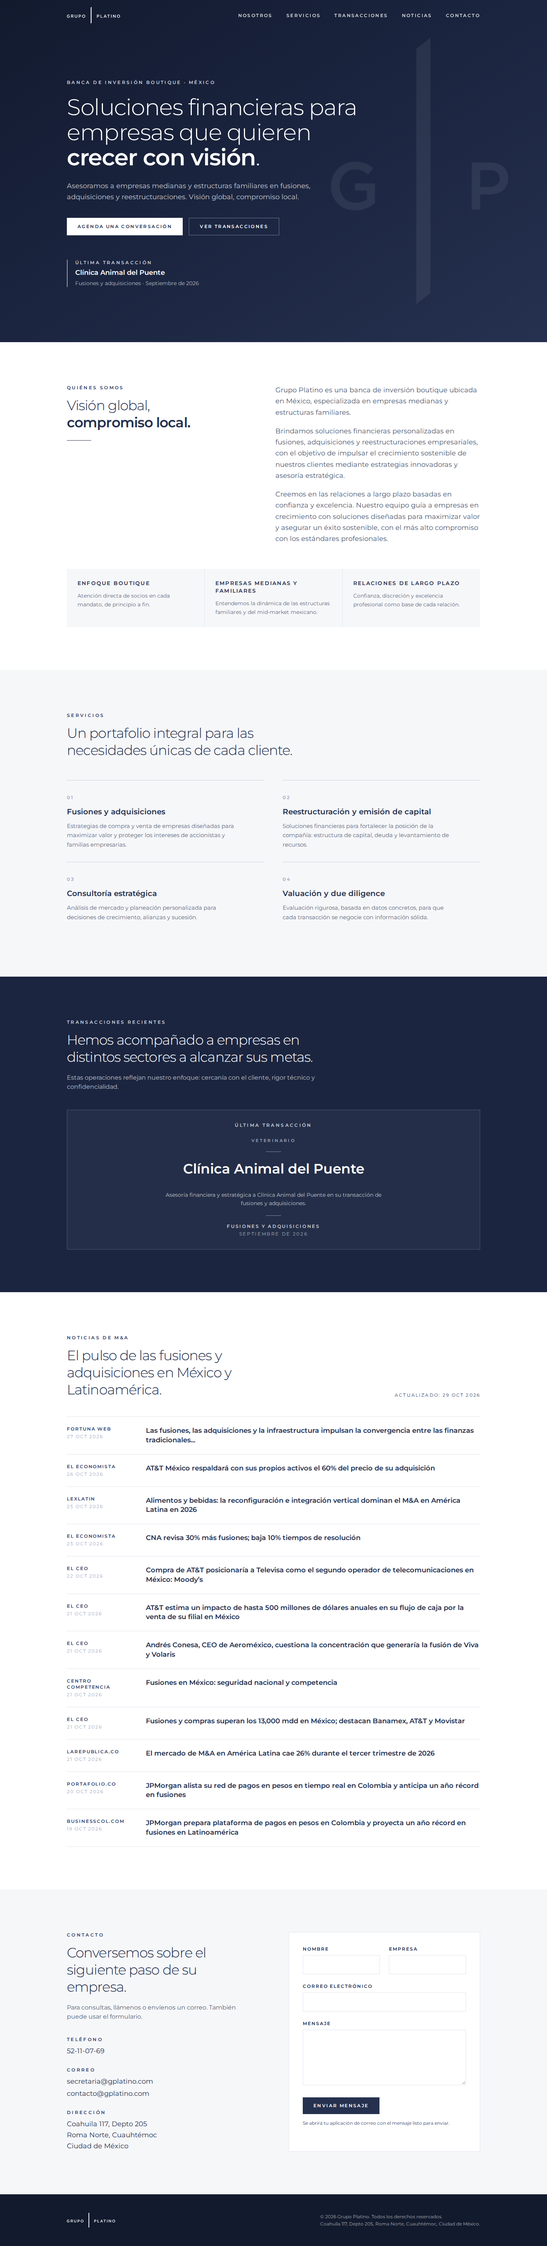
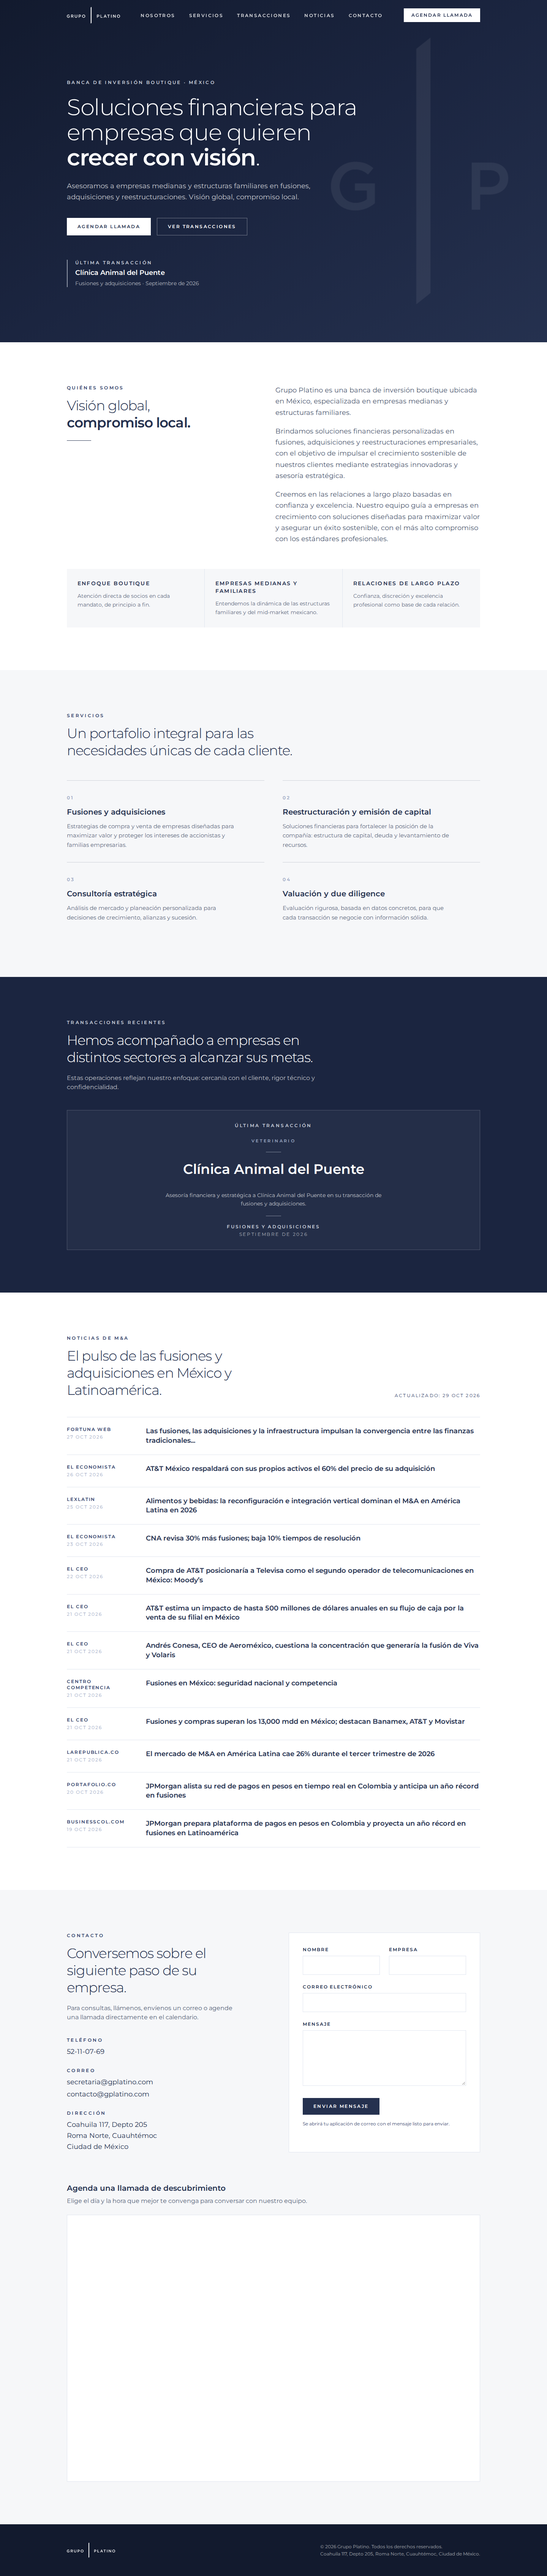
feat(contacto): botón Agendar llamada y widget de Calendly con fallback y CSP

diff --git a/src/components/Calendly.tsx b/src/components/Calendly.tsx
@@ -1,0 +1,90 @@
+import { useEffect, useRef, useState } from 'react';
+import { calendlyUrl } from '../content';
+
+const WIDGET_SRC = 'https://assets.calendly.com/assets/external/widget.js';
+const LOAD_TIMEOUT_MS = 12_000;
+
+interface CalendlyGlobal {
+  initInlineWidget: (opts: { url: string; parentElement: HTMLElement }) => void;
+}
+declare global {
+  interface Window {
+    Calendly?: CalendlyGlobal;
+  }
+}
+
+function loadWidgetScript(): Promise<CalendlyGlobal> {
+  return new Promise((resolve, reject) => {
+    if (window.Calendly) return resolve(window.Calendly);
+    const existing = document.querySelector<HTMLScriptElement>(`script[src="${WIDGET_SRC}"]`);
+    const script = existing ?? document.createElement('script');
+    script.addEventListener('load', () => (window.Calendly ? resolve(window.Calendly) : reject(new Error('sin Calendly'))));
+    script.addEventListener('error', () => reject(new Error('error de red')));
+    if (!existing) {
+      script.src = WIDGET_SRC;
+      script.async = true;
+      document.head.appendChild(script);
+    }
+  });
+}
+
+export default function CalendlyEmbed() {
+  const container = useRef<HTMLDivElement>(null);
+  const [status, setStatus] = useState<'loading' | 'ready' | 'failed'>('loading');
+
+  useEffect(() => {
+    let cancelled = false;
+    let loaded = false;
+
+    const onMessage = (e: MessageEvent) => {
+      if (e.origin !== 'https://calendly.com') return;
+      const event = (e.data as { event?: string } | null)?.event;
+      if (typeof event === 'string' && event.startsWith('calendly.')) {
+        loaded = true;
+        if (!cancelled) setStatus('ready');
+      }
+    };
+    window.addEventListener('message', onMessage);
+
+    const timer = window.setTimeout(() => {
+      if (!loaded && !cancelled) setStatus('failed');
+    }, LOAD_TIMEOUT_MS);
+
+    loadWidgetScript()
+      .then((calendly) => {
+        if (cancelled || !container.current) return;
+        container.current.replaceChildren();
+        calendly.initInlineWidget({ url: calendlyUrl, parentElement: container.current });
+      })
+      .catch(() => !cancelled && setStatus('failed'));
+
+    return () => {
+      cancelled = true;
+      window.clearTimeout(timer);
+      window.removeEventListener('message', onMessage);
+    };
+  }, []);
+
+  if (status === 'failed') {
+    return (
+      <div className="flex min-h-[18rem] flex-col items-center justify-center gap-5 border border-navy-100 bg-white p-8 text-center" role="status">
+        <p className="max-w-sm text-navy-800/80">No pudimos cargar el calendario en esta página. Puedes agendar tu llamada directamente en Calendly.</p>
+        <a href={calendlyUrl} target="_blank" rel="noopener noreferrer" className="btn bg-navy-800 text-white hover:bg-navy-700">
+          Agendar llamada
+          <span className="sr-only"> (se abre en una pestaña nueva)</span>
+        </a>
+      </div>
+    );
+  }
+
+  return (
+    <div className="relative border border-navy-100 bg-white">
+      {status === 'loading' && (
+        <p className="absolute inset-0 flex items-center justify-center text-sm text-navy-700" role="status">
+          Cargando calendario…
+        </p>
+      )}
+      <div ref={container} className="h-[700px] w-full min-w-[280px]" />
+    </div>
+  );
+}

diff --git a/src/components/Header.tsx b/src/components/Header.tsx
@@ -1,5 +1,6 @@
 import { useEffect, useState } from 'react';
 import { asset } from '../lib/asset';
+import { calendlyUrl } from '../content';
 
 const links = [
   { href: '#nosotros', label: 'Nosotros' },
@@ -63,6 +64,17 @@ export default function Header() {
           </ul>
         </nav>
 
+        <a
+          href={calendlyUrl}
+          target="_blank"
+          rel="noopener noreferrer"
+          className={`hidden px-5 py-2.5 text-xs font-semibold uppercase tracking-[0.18em] transition-colors md:inline-flex ${
+            solid ? 'bg-navy-800 text-white hover:bg-navy-700' : 'bg-white text-navy-800 hover:bg-platinum'
+          }`}
+        >
+          Agendar llamada<span className="sr-only"> (se abre en una pestaña nueva)</span>
+        </a>
+
         <button
           type="button"
           className={`-mr-2 p-2 md:hidden ${solid ? 'text-navy-800' : 'text-white'}`}
@@ -91,6 +103,16 @@ export default function Header() {
                 </a>
               </li>
             ))}
+            <li className="py-4">
+              <a
+                href={calendlyUrl}
+                target="_blank"
+                rel="noopener noreferrer"
+                className="btn w-full bg-navy-800 text-white"
+              >
+                Agendar llamada<span className="sr-only"> (se abre en una pestaña nueva)</span>
+              </a>
+            </li>
           </ul>
         </nav>
       )}

diff --git a/src/components/Contact.tsx b/src/components/Contact.tsx
@@ -1,5 +1,6 @@
 import { useState, type FormEvent } from 'react';
 import { contact } from '../content';
+import CalendlyEmbed from './Calendly';
 
 export default function Contact() {
   const [sent, setSent] = useState(false);
@@ -31,7 +32,7 @@ export default function Contact() {
             Conversemos sobre el siguiente paso de su empresa.
           </h2>
           <p className="mt-5 max-w-md text-navy-800/80">
-            Para consultas, llámenos o envíenos un correo. También puede usar el formulario.
+            Para consultas, llámenos, envíenos un correo o agende una llamada directamente en el calendario.
           </p>
 
           <dl className="mt-10 space-y-7 text-sm">
@@ -94,6 +95,14 @@ export default function Contact() {
               : 'Se abrirá tu aplicación de correo con el mensaje listo para enviar.'}
           </p>
         </form>
+
+        <div id="agendar" className="lg:col-span-2">
+          <h3 className="text-xl font-semibold">Agenda una llamada de descubrimiento</h3>
+          <p className="mt-2 mb-6 max-w-2xl text-navy-800/80">
+            Elige el día y la hora que mejor te convenga para conversar con nuestro equipo.
+          </p>
+          <CalendlyEmbed />
+        </div>
       </div>
     </section>
   );

diff --git a/src/components/Hero.tsx b/src/components/Hero.tsx
@@ -1,4 +1,5 @@
 import { asset } from '../lib/asset';
+import { calendlyUrl } from '../content';
 import { formatMonth, useDeals } from '../lib/data';
 
 export default function Hero() {
@@ -27,8 +28,8 @@ export default function Hero() {
           Visión global, compromiso local.
         </p>
         <div className="mt-10 flex flex-col gap-4 sm:flex-row">
-          <a href="#contacto" className="btn bg-white text-navy-800 hover:bg-platinum">
-            Agenda una conversación
+          <a href={calendlyUrl} target="_blank" rel="noopener noreferrer" className="btn bg-white text-navy-800 hover:bg-platinum">
+            Agendar llamada<span className="sr-only"> (se abre en una pestaña nueva)</span>
           </a>
           <a href="#transacciones" className="btn border border-white/40 text-white hover:border-white hover:bg-white/10">
             Ver transacciones

diff --git a/vite.config.ts b/vite.config.ts
@@ -1,8 +1,16 @@
-import { defineConfig } from 'vite';
+import { defineConfig, type Plugin } from 'vite';
 import react from '@vitejs/plugin-react';
 import tailwindcss from '@tailwindcss/vite';
+import { csp } from './csp.mjs';
+
+// Solo en build: el dev server de Vite necesita scripts inline para React Fast Refresh.
+const cspMeta = (): Plugin => ({
+  name: 'csp-meta',
+  apply: 'build',
+  transformIndexHtml: () => [{ tag: 'meta', attrs: { 'http-equiv': 'Content-Security-Policy', content: csp }, injectTo: 'head-prepend' }],
+});
 
 export default defineConfig({
   base: './',
-  plugins: [react(), tailwindcss()],
+  plugins: [react(), tailwindcss(), cspMeta()],
 });

diff --git a/src/content.ts b/src/content.ts
@@ -29,3 +29,5 @@ export const pillars = [
   { title: 'Empresas medianas y familiares', text: 'Entendemos la dinámica de las estructuras familiares y del mid-market mexicano.' },
   { title: 'Relaciones de largo plazo', text: 'Confianza, discreción y excelencia profesional como base de cada relación.' },
 ];
+
+export const calendlyUrl = 'https://calendly.com/jcmartorell-gplatino/grupo-platino-discovery';

diff --git a/README.md b/README.md
@@ -5,6 +5,7 @@ Sitio web de **Grupo Platino**, banca de inversión boutique en México especial
 - **Stack:** Vite + React + TypeScript + Tailwind CSS v4. Tipografía Montserrat (autoalojada vía `@fontsource-variable/montserrat`).
 - **Sitio estático:** se despliega en GitHub Pages, Vercel o Netlify (configuración incluida).
 - **Contenido dinámico:** las secciones de *Transacciones* y *Noticias de M&A* se leen en el navegador desde `public/data/deals.json` y `public/data/news.json`.
+- **Agendar llamada:** botón en el header y el hero (abre Calendly en pestaña nueva) y widget embebido en *Contacto*, con fallback al enlace si el widget no carga.
 - **Agente mensual:** una GitHub Action actualiza las noticias cada mes y abre un Pull Request.
 
 ![Escritorio](docs/screenshots/desktop-full.png)
@@ -29,7 +30,7 @@ public/
   data/news.json      noticias de M&A (las actualiza el agente)
   og-image.png        imagen para redes sociales
 src/
-  content.ts          textos de servicios, contacto y pilares
+  content.ts          textos de servicios, contacto, pilares y URL de Calendly
   components/         Header, Hero, About, Services, Deals, News, Contact, Footer
   lib/data.ts         carga de JSON en runtime + formato de fechas
 scripts/
@@ -91,13 +92,21 @@ npm run update:news
 
 > Los PR creados con el `GITHUB_TOKEN` no disparan otros workflows (p. ej. CI). Si se requiere CI en esos PR, usa un token personal o GitHub App en `monthly-update.yml`.
 
+## Calendly (agendar llamada)
+
+- URL configurada en `src/content.ts` (`calendlyUrl`): https://calendly.com/jcmartorell-gplatino/grupo-platino-discovery
+- Botones "Agendar llamada" en el header (escritorio y menú móvil) y en el hero: abren el enlace en una pestaña nueva.
+- Widget inline en la sección *Contacto* (`src/components/Calendly.tsx`): carga `assets.calendly.com/assets/external/widget.js` bajo demanda. Si el script falla o el calendario no responde en 12 s (bloqueadores, red, CSP), se muestra un mensaje con el botón al enlace directo.
+- **CSP:** la política vive en `csp.mjs` y permite únicamente `script-src https://assets.calendly.com`, `frame-src https://calendly.com` y `connect-src https://*.calendly.com`. Se inyecta como `<meta>` en el build (cubre GitHub Pages) y también como cabecera en `vercel.json` y `netlify.toml`. Si cambias la política, actualiza los tres sitios. En `npm run dev` no se aplica (Vite necesita scripts inline).
+- Para cambiar de evento o cuenta, edita `calendlyUrl`.
+
 ## Despliegue
 
 | Plataforma | Configuración |
 | --- | --- |
 | GitHub Pages | `.github/workflows/deploy-pages.yml` (el sitio usa `base: './'`, funciona en subruta y en dominio propio). |
-| Vercel | `vercel.json` (build `npm run build`, salida `dist`). |
-| Netlify | `netlify.toml` (Node 22, salida `dist`). |
+| Vercel | `vercel.json` (build `npm run build`, salida `dist`, cabeceras CSP). |
+| Netlify | `netlify.toml` (Node 22, salida `dist`, cabeceras CSP). |
 
 Para usar el dominio `www.gplatino.com`, configúralo en la plataforma elegida; las URL canónicas, `sitemap.xml`, `robots.txt` y metadatos Open Graph ya apuntan a ese dominio.
 
